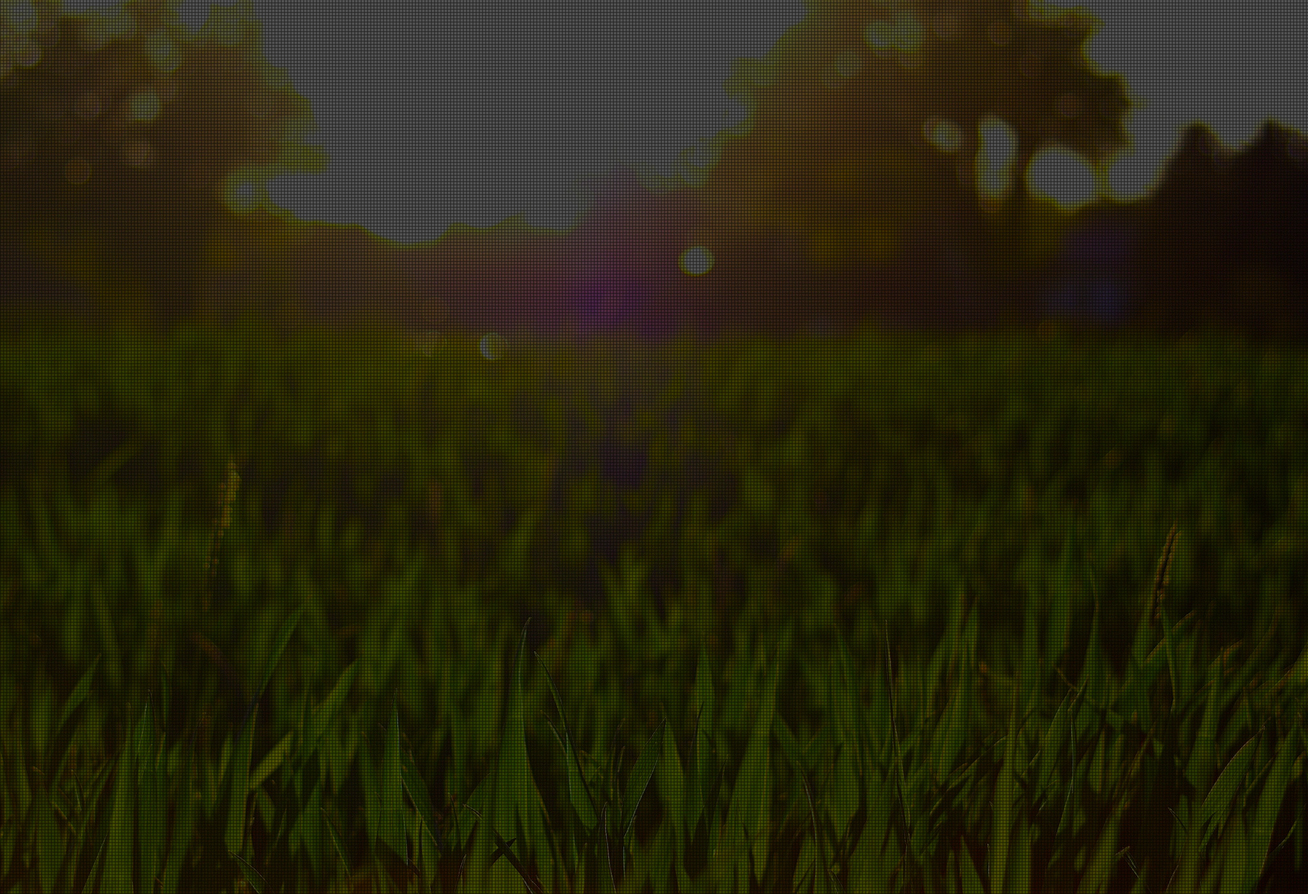
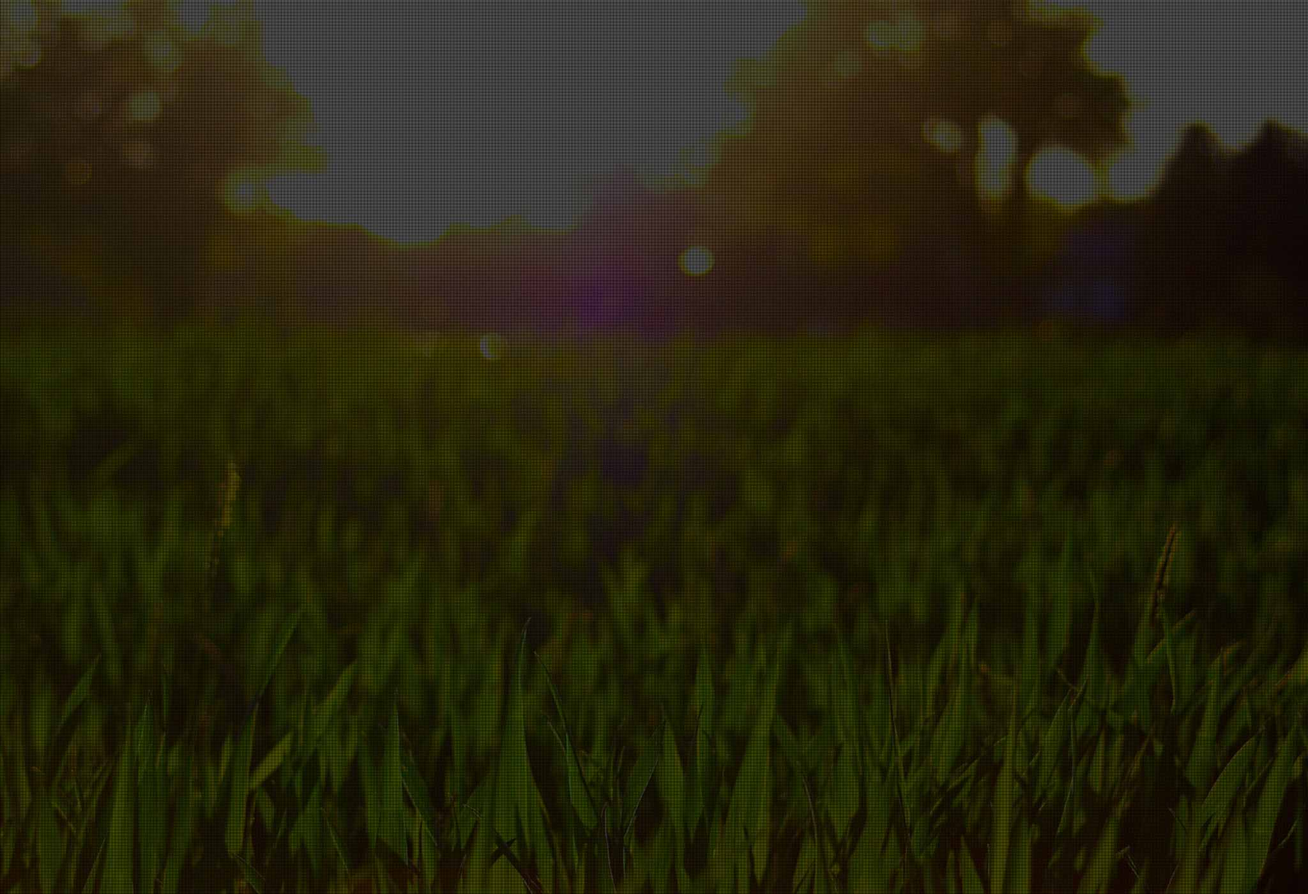
reduces preview.html's background image file size

Changed region(s): [[0.5625, 0.1229, 0.5938, 0.1536], [0.4688, 0.1843, 0.5, 0.215], [0.4375, 0.2764, 0.4688, 0.3071]]

diff --git a/app/assets/javascripts/user-static-content/controller.js b/app/assets/javascripts/user-static-content/controller.js
@@ -48,8 +48,8 @@
         if (data.id) $scope.getSponsors();
       });
     } else if ($scope.mode === 'preview') {
-      vidTimer();
       $timeout(function(){
+        vidTimer();
         $('#sun_header_guest').addClass('invert');
       })
     }

diff --git a/app/assets/javascripts/user-static-content/templates/preview.html b/app/assets/javascripts/user-static-content/templates/preview.html
@@ -15,7 +15,7 @@
       </span>
       <span class="detail">presentation starts in</span>
       <div class="timer">
-        <span>{{timer}}</span>
+        <span>{{timer || '00:10'}}</span>
       </div>
     </div>
     <div class="bottom-text-box">
